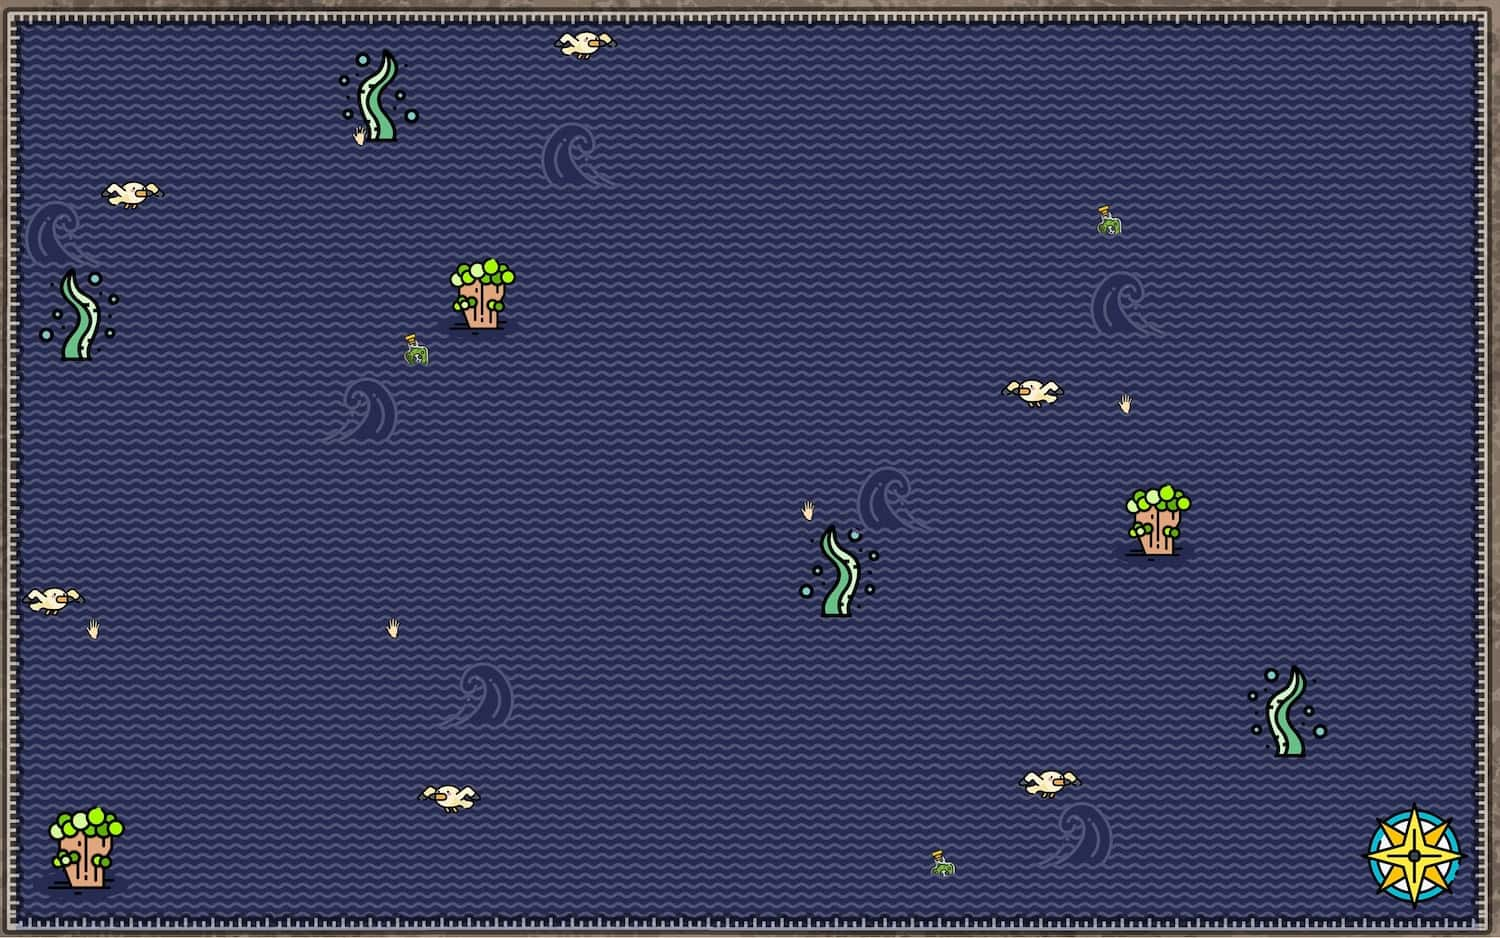
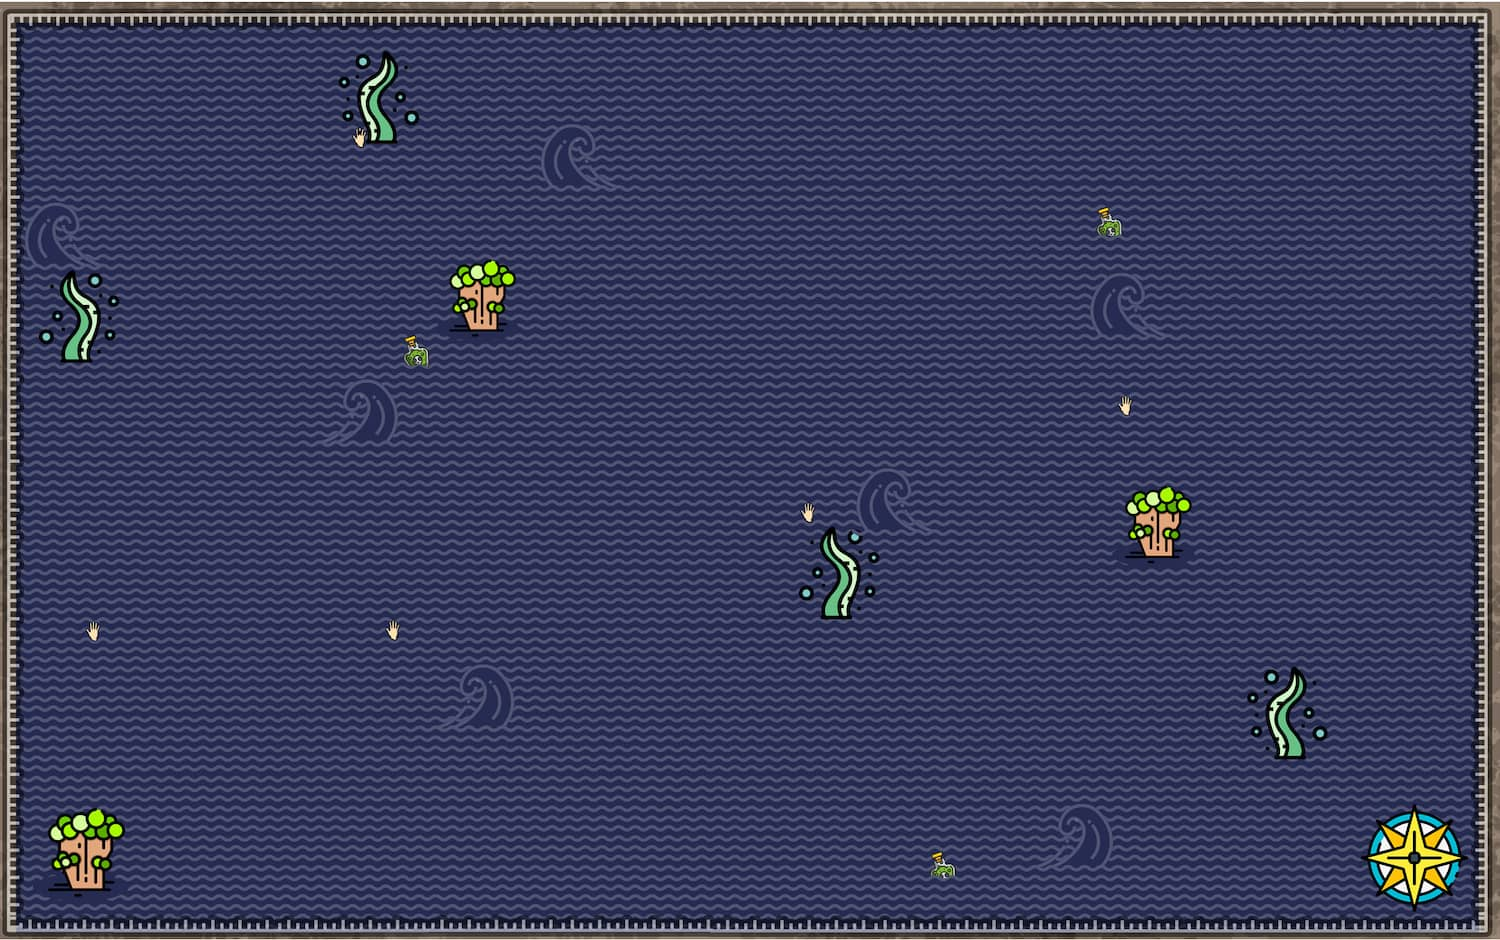
change back image

diff --git a/homepage/static/scripts/kabaramadalapeste/data.js b/homepage/static/scripts/kabaramadalapeste/data.js
@@ -7,8 +7,6 @@ let data = {
         src: "BG.jpg"
     },
     ways: {
-        x: 0,
-        y: 0,
         src: "ways.png"
     },
     jazireha: [
@@ -298,9 +296,6 @@ let data = {
 data.back.width = data.width * 1.3;
 data.back.height = (data.back.width / 1500) * 900;
 if (data.width / 1500 < data.height / 900) {
-    data.back.heightf = data.height * 1.3;
+    data.back.height = data.height * 1.3;
     data.back.width = (data.back.height / 900) * 1500;
 }
-
-data.ways.width = data.back.width;
-data.ways.height = data.back.height;

diff --git a/homepage/static/scripts/kabaramadalapeste/game.js b/homepage/static/scripts/kabaramadalapeste/game.js
@@ -110,11 +110,11 @@ function init_jazireha(layer) {
 
 function init_ways(layer) {
     data.ways.elem = new Konva.Image({
-        x: data.ways.x,
-        y: data.ways.y,
+        x: data.back.x,
+        y: data.back.y,
         image: data.images[data.ways.src],
-        width: data.ways.width,
-        height: data.ways.height,
+        width: data.back.width,
+        height: data.back.height,
         listening: false
     });
     layer.add(data.ways.elem);
